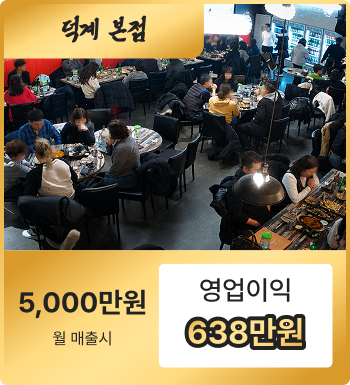
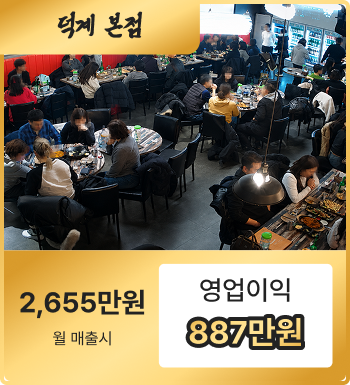
최종본 수정

diff --git a/index.html b/index.html
@@ -450,14 +450,14 @@
              무한 루프를 만들 수 없어 비활성화되므로, 동일 이미지를 반복 배치해 슬라이드 수를 늘림 -->
         <div class="swiper-wrapper">
           <div class="swiper-slide"><img src="./source/profit1.jpg" alt="매출 인증 1" /></div>
-          <div class="swiper-slide"><img src="./source/profit2.jpg" alt="매출 인증 2" /></div>
-          <div class="swiper-slide"><img src="./source/profit3.jpg" alt="매출 인증 3" /></div>
+          <div class="swiper-slide"><img src="./source/profit2.png" alt="매출 인증 2" /></div>
+          <div class="swiper-slide"><img src="./source/profit3.png" alt="매출 인증 3" /></div>
           <div class="swiper-slide"><img src="./source/profit1.jpg" alt="매출 인증 1" /></div>
-          <div class="swiper-slide"><img src="./source/profit2.jpg" alt="매출 인증 2" /></div>
-          <div class="swiper-slide"><img src="./source/profit3.jpg" alt="매출 인증 3" /></div>
+          <div class="swiper-slide"><img src="./source/profit2.png" alt="매출 인증 2" /></div>
+          <div class="swiper-slide"><img src="./source/profit3.png" alt="매출 인증 3" /></div>
           <div class="swiper-slide"><img src="./source/profit1.jpg" alt="매출 인증 1" /></div>
-          <div class="swiper-slide"><img src="./source/profit2.jpg" alt="매출 인증 2" /></div>
-          <div class="swiper-slide"><img src="./source/profit3.jpg" alt="매출 인증 3" /></div>
+          <div class="swiper-slide"><img src="./source/profit2.png" alt="매출 인증 2" /></div>
+          <div class="swiper-slide"><img src="./source/profit3.png" alt="매출 인증 3" /></div>
         </div>
       </div>
       <div class="arrows">
@@ -813,8 +813,8 @@
         <span class="pl-tag">홀매출<i class="pl-dot"></i>배달없음</span>
 
         <div class="pl-stat">
-          <span class="pl-stat__label">2026년 5월 매출 합계</span>
-          <span class="pl-stat__value">4,187</span>
+          <span class="pl-stat__label">2026년 6월 매출 합계</span>
+          <span class="pl-stat__value">4,639만원</span>
         </div>
 
         <div class="pl-block">
@@ -826,11 +826,11 @@
           <div class="pl-legend">
             <div class="pl-legend__row">
               <span class="pl-legend__dot" style="background:#fe105e;"></span>
-              <span class="pl-legend__txt">카드 매출<i class="pl-dot"></i>95%<i class="pl-dot"></i><b style="color:#fe105e;">3,978</b></span>
+              <span class="pl-legend__txt">카드 매출<i class="pl-dot"></i>95%<i class="pl-dot"></i><b style="color:#fe105e;">4,407</b></span>
             </div>
             <div class="pl-legend__row">
               <span class="pl-legend__dot" style="background:#3bff00;"></span>
-              <span class="pl-legend__txt">현금 매출<i class="pl-dot"></i>5%<i class="pl-dot"></i><b style="color:#3bff00;">209</b></span>
+              <span class="pl-legend__txt">현금 매출<i class="pl-dot"></i>5%<i class="pl-dot"></i><b style="color:#3bff00;">232</b></span>
             </div>
           </div>
         </div>
@@ -839,19 +839,19 @@
           <p class="pl-block__title">비용 항목별</p>
 
           <div class="pl-cost-item">
-            <div class="pl-cost-item__row"><span>식자재</span><span><b style="color:#fe105e;">1,256</b><i class="pl-dot"></i>30%</span></div>
+            <div class="pl-cost-item__row"><span>식자재</span><span><b style="color:#fe105e;">1,392</b><i class="pl-dot"></i>30%</span></div>
             <div class="pl-bar"><span class="pl-bar__fill" style="width:36.13%;"></span></div>
           </div>
           <div class="pl-cost-item">
-            <div class="pl-cost-item__row"><span>인건비</span><span><b style="color:#fe105e;">661</b><i class="pl-dot"></i>15.8%</span></div>
+            <div class="pl-cost-item__row"><span>인건비</span><span><b style="color:#fe105e;">733</b><i class="pl-dot"></i>15.8%</span></div>
             <div class="pl-bar"><span class="pl-bar__fill" style="width:13.49%;"></span></div>
           </div>
           <div class="pl-cost-item">
-            <div class="pl-cost-item__row"><span>매장임대료</span><span><b style="color:#fe105e;">440</b><i class="pl-dot"></i>10.5%</span></div>
+            <div class="pl-cost-item__row"><span>매장임대료</span><span><b style="color:#fe105e;">487</b><i class="pl-dot"></i>10.5%</span></div>
             <div class="pl-bar"><span class="pl-bar__fill" style="width:8.14%;"></span></div>
           </div>
           <div class="pl-cost-item">
-            <div class="pl-cost-item__row"><span>기타운영비</span><span><b style="color:#fe105e;">436</b><i class="pl-dot"></i>10.4%</span></div>
+            <div class="pl-cost-item__row"><span>기타운영비</span><span><b style="color:#fe105e;">482</b><i class="pl-dot"></i>10.4%</span></div>
             <div class="pl-bar"><span class="pl-bar__fill" style="width:7.63%;"></span></div>
           </div>
         </div>
@@ -859,10 +859,10 @@
         <div class="pl-profit">
           <div class="pl-profit__txt">
             <p class="pl-profit__label">예상 순이익</p>
-            <p class="pl-profit__value"><b>1,394</b><span>만원</span></p>
+            <p class="pl-profit__value"><b>1,545</b><span>만원</span></p>
           </div>
           <div class="pl-profit__note">
-            <p>민락직영점 2026.5 실매출 4,187만원</p>
+            <p>민락직영점 2026.5 실매출 4,639만원</p>
             <p>인건ㆍ판관비 표준 모델 수익률 기준</p>
           </div>
           <div class="pl-profit__badge f-griun"><span>수익률</span><b>33.3%</b></div>
@@ -882,7 +882,7 @@
     <p class="launch-badge">선착순 10호점 한정</p>
 
     <div class="launch-card">
-      <p class="launch-card__lead">단 <b>1,000만원</b>으로 내 매장 시작 가능!</p>
+      <p class="launch-card__lead">선착순 10호점에 한해 가맹비</p>
       <p class="launch-card__price">0원</p>
       <div class="launch-stats">
         <div class="launch-stat"><span class="launch-stat__label">가맹비</span><span class="launch-stat__value f-griun">전액무료</span></div>

diff --git a/script.js b/script.js
@@ -377,14 +377,14 @@ document.addEventListener('DOMContentLoaded', () => {
         franchiseFee: { value: '3,000,000', waived: '0원' },
         eduFee: '5,000,000',
         deposit: '보증보험<br />가능',
-        interior: '자율',
+        interior: '15,000,000',
         signage: '3,000,000',
         furniture: '자율',
-        facility: '자율',
+        facility: '3,000,000',
         marketing: '자율',
         initialGoods: '2,000,000',
         interiorEtc: '',
-        total: '10,000,000+@',
+        total: '28,000,000+@',
       },
     },
     new: {
@@ -395,14 +395,14 @@ document.addEventListener('DOMContentLoaded', () => {
         franchiseFee: { value: '3,000,000', waived: '0원' },
         eduFee: '5,000,000',
         deposit: '보증보험<br />가능',
-        interior: '자율',
+        interior: '45,000,00',
         signage: '3,000,000',
-        furniture: '자율',
-        facility: '자율',
+        furniture: '6,000,000',
+        facility: '15,000,000',
         marketing: '자율',
         initialGoods: '2,000,000',
         interiorEtc: '',
-        total: '10,000,000+@',
+        total: '76,000,000+@',
       },
     },
   };
@@ -537,7 +537,7 @@ document.addEventListener('DOMContentLoaded', () => {
   if (proofSwiperEl && window.Swiper) {
     const zoomBox = document.querySelector('.proof-gallery .zoom');
     const zoomImg = document.querySelector('.proof-gallery .zoom-img');
-    const proofImages = ['./source/profit1.jpg', './source/profit2.jpg', './source/profit3.jpg'];
+    const proofImages = ['./source/profit1.jpg', './source/profit2.png', './source/profit3.png'];
 
     const playZoomPop = () => {
       if (!zoomBox) return;

diff --git a/style.css b/style.css
@@ -1076,7 +1076,7 @@ img {
 
 .compare-orange {
   position: relative;
-  background: #fff;
+  background: #D99B2B;
   border: 7px solid #FFCB3D;
   border-radius: 20px;
   padding: 40px 56px;
@@ -1086,9 +1086,9 @@ img {
   align-items: center;
   gap: 30px;
 }
-.compare-orange .brand-img { width: 323px; height: 106px; object-fit: cover; }
+.compare-orange .brand-img { width: 323px; height: 106px; object-fit: contain; }
 .compare-orange ul { width: 100%; display: flex; flex-direction: column; gap: 30px; align-items: center; }
-.compare-orange li { color: #222; font-size: 30px; font-weight: 600; line-height: 50px; white-space: nowrap; }
+.compare-orange li { color: #fff; font-size: 30px; font-weight: 600; line-height: 50px; white-space: nowrap; }
 .compare-orange li + li { border-top: 1px solid rgba(34, 34, 34, 0.4); width: 100%; padding-top: 30px; text-align: center; }
 
 /* =========================================================
